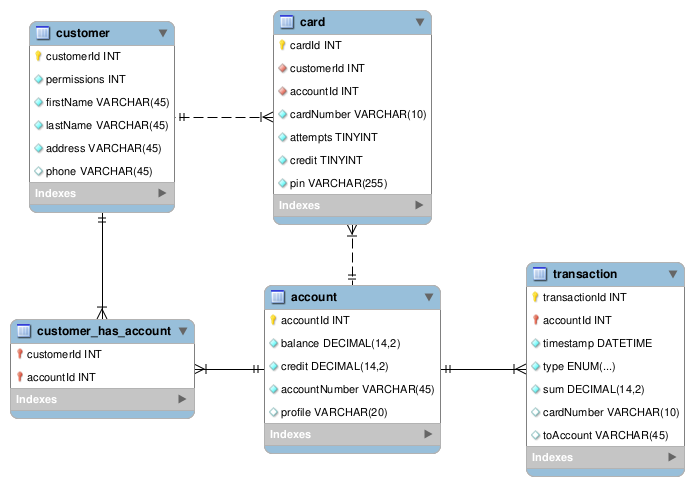
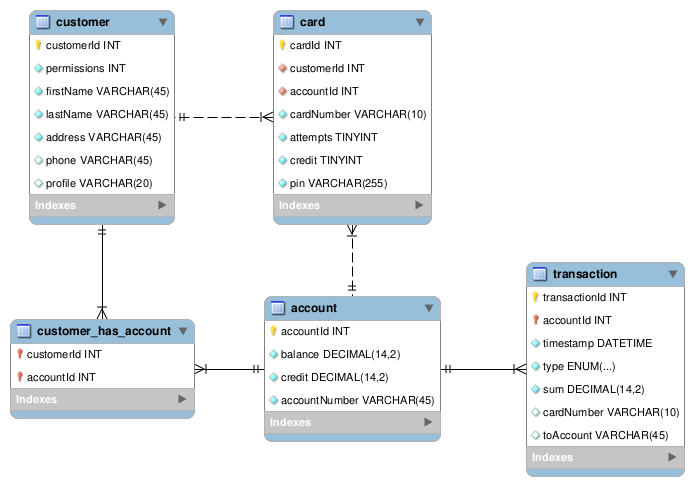
database/atm-api: Move profile field to customer from account

Changed region(s): [[0.0303, 0.0, 0.2723, 0.463], [0.3631, 0.5864, 0.6354, 0.9568]]

diff --git a/atm-api/models/crud/customer.js b/atm-api/models/crud/customer.js
@@ -9,8 +9,8 @@ module.exports = {
     },
     add: (customer) => {
         return db.query(
-            "INSERT INTO customer (permissions, firstName, lastName, address, phone) VALUES(?, ?, ?, ?, ?)", 
-            [ customer.permissions, customer.firstName, customer.lastName, customer.address, customer.phone ]
+            "INSERT INTO customer (permissions, firstName, lastName, address, phone, profile) VALUES(?, ?, ?, ?, ?, ?)",
+            [ customer.permissions, customer.firstName, customer.lastName, customer.address, customer.phone, customer.profile ]
         );
     },
     delete: (id) => {
@@ -18,8 +18,8 @@ module.exports = {
     },
     update: (id, customer) => {
         return db.query(
-            "UPDATE customer SET permissions=?, firstName=?, lastName=?, address=?, phone=? WHERE customerId=?", 
-            [ customer.permissions, customer.firstName, customer.lastName, customer.address, customer.phone, id ]
+            "UPDATE customer SET permissions=?, firstName=?, lastName=?, address=?, phone=?, profile=? WHERE customerId=?",
+            [ customer.permissions, customer.firstName, customer.lastName, customer.address, customer.phone, customer.profile, id ]
         );
     }
 };

diff --git a/atm-api/routes/static.js b/atm-api/routes/static.js
@@ -1,4 +1,4 @@
-const account = require("../models/crud/account");
+const customer = require("../models/crud/customer");
 const express = require("express");
 const butil = require("../util");
 const path = require("path");
@@ -13,16 +13,16 @@ const unknownProfile = (res) => {
 router.use("/image/profile", butil.permissionChecker(null));
 
 router.use("/image/profile", (req, res, next) => {
-    account.getById(req.token.accountId)
+    customer.getById(req.token.accountId)
         .then(dbRes => {
-            const acc = dbRes[0];
+            const cust = dbRes[0];
 
-            if(acc.profile === null || acc.profile === undefined) {
+            if(cust.profile === null || cust.profile === undefined) {
                 unknownProfile(res);
                 return;
             }
 
-            const profile = acc.profile.indexOf("/") !== -1 ? acc.profile.substring(1) : acc.profile;
+            const profile = cust.profile.indexOf("/") !== -1 ? cust.profile.substring(1) : cust.profile;
             const path = req.path.indexOf("/") !== -1 ? req.path.substring(1) : req.path;
 
             if(profile !== path) {

diff --git a/atm-api/routes/api/data.js b/atm-api/routes/api/data.js
@@ -19,7 +19,7 @@ router.get("/info", (req, res) => {
                 lName: custResult[0].lastName,
                 accountNumber: accResult[0].accountNumber,
                 credit: Boolean(cardResult[0].credit),
-                profile: accResult[0].profile === null || accResult[0].profile === undefined ? "/static/image/unknown_profile.png" : posix.join("/static/image/profile", accResult[0].profile)
+                profile: custResult[0].profile === null || custResult[0].profile === undefined ? "/static/image/unknown_profile.png" : posix.join("/static/image/profile", custResult[0].profile)
             });
         })
         .catch(error => butil.handleQueryError(error, res));
